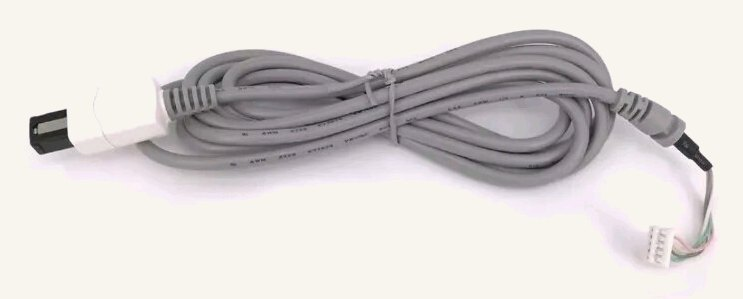
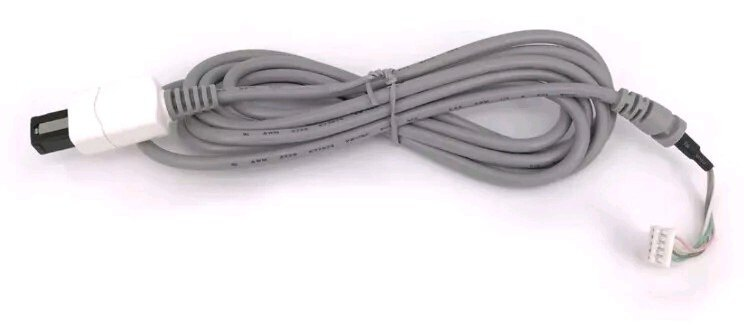
Re-matte the cable render for body use, not hero use
The replacement-cable render was matted onto the ground colour
(#f8f5ef) when it was the hero. As a body image it now sits on a
white card, so the cream background showed as a visible block.
Re-derived from the original PNG, which already had a pure white
background, trimmed the dead margin, and added .cutout for inner
padding.

Claude-Session: https://claude.ai/code/session_012utzLUUvTAkHjcsaopjnGb

Changed region(s): [[0.031, 0.0903, 0.9596, 0.903]]

diff --git a/_posts/2026-09-08-fix-broken-dreamcast-controller.md b/_posts/2026-09-08-fix-broken-dreamcast-controller.md
@@ -13,7 +13,7 @@ My second Dreamcast controller stopped working. Comparing it against a known-goo
 
 While looking into it, I came across [a Dreamcast controller restoration video](https://youtu.be/6n1yZ5k4TV0) that pointed toward the fix — rather than trying to coax the damaged pins back into shape, or opening up the controller to re-terminate the wire, the whole cable is a cheap, easy swap. Replacement Dreamcast controller cords turn up for a few dollars on AliExpress, or a bit more on eBay.
 
-![A replacement Dreamcast controller cable](/img/dreamcast-controller-replacement-cable.jpg){: width="480"}
+![A replacement Dreamcast controller cable](/img/dreamcast-controller-replacement-cable.jpg){: width="480" .cutout}
 
 I picked one up, and the fix was as simple as it sounds: no soldering, no disassembly beyond opening the shell to swap the connector — just plug and play. Fixed.
 
